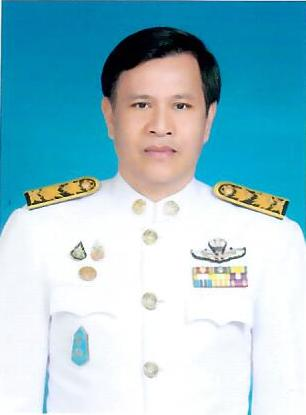
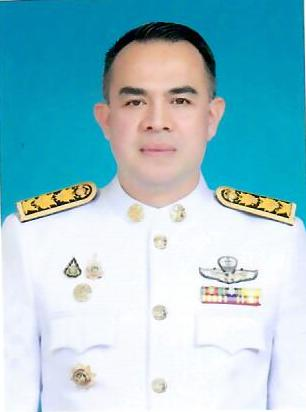
update

diff --git a/personnal.html b/personnal.html
@@ -317,7 +317,7 @@
 
     <script>
         // ใส่ URL ของ Google Apps Script ของคุณที่นี่
-        const WEB_APP_URL = 'https://script.google.com/macros/s/AKfycbzGxjVAK2GS3f_YQFl7JMBZfMUTU7OqVfp_pKoBACPZ0LhqtCSf_kMdNuiI9q3RhkmC/exec';
+        const WEB_APP_URL = 'https://script.google.com/macros/s/AKfycbxF0su-nsJA2DaItc3RK-7tVkK2LJAhfh3Dfhzj5G8gITquBBn4Ffb463izJa9XID-k/exec';
         const familyTreeContainer = document.getElementById('family-tree-container');
         const popupOverlay = document.getElementById('popup-overlay');
         const closeBtn = document.getElementById('close-btn');